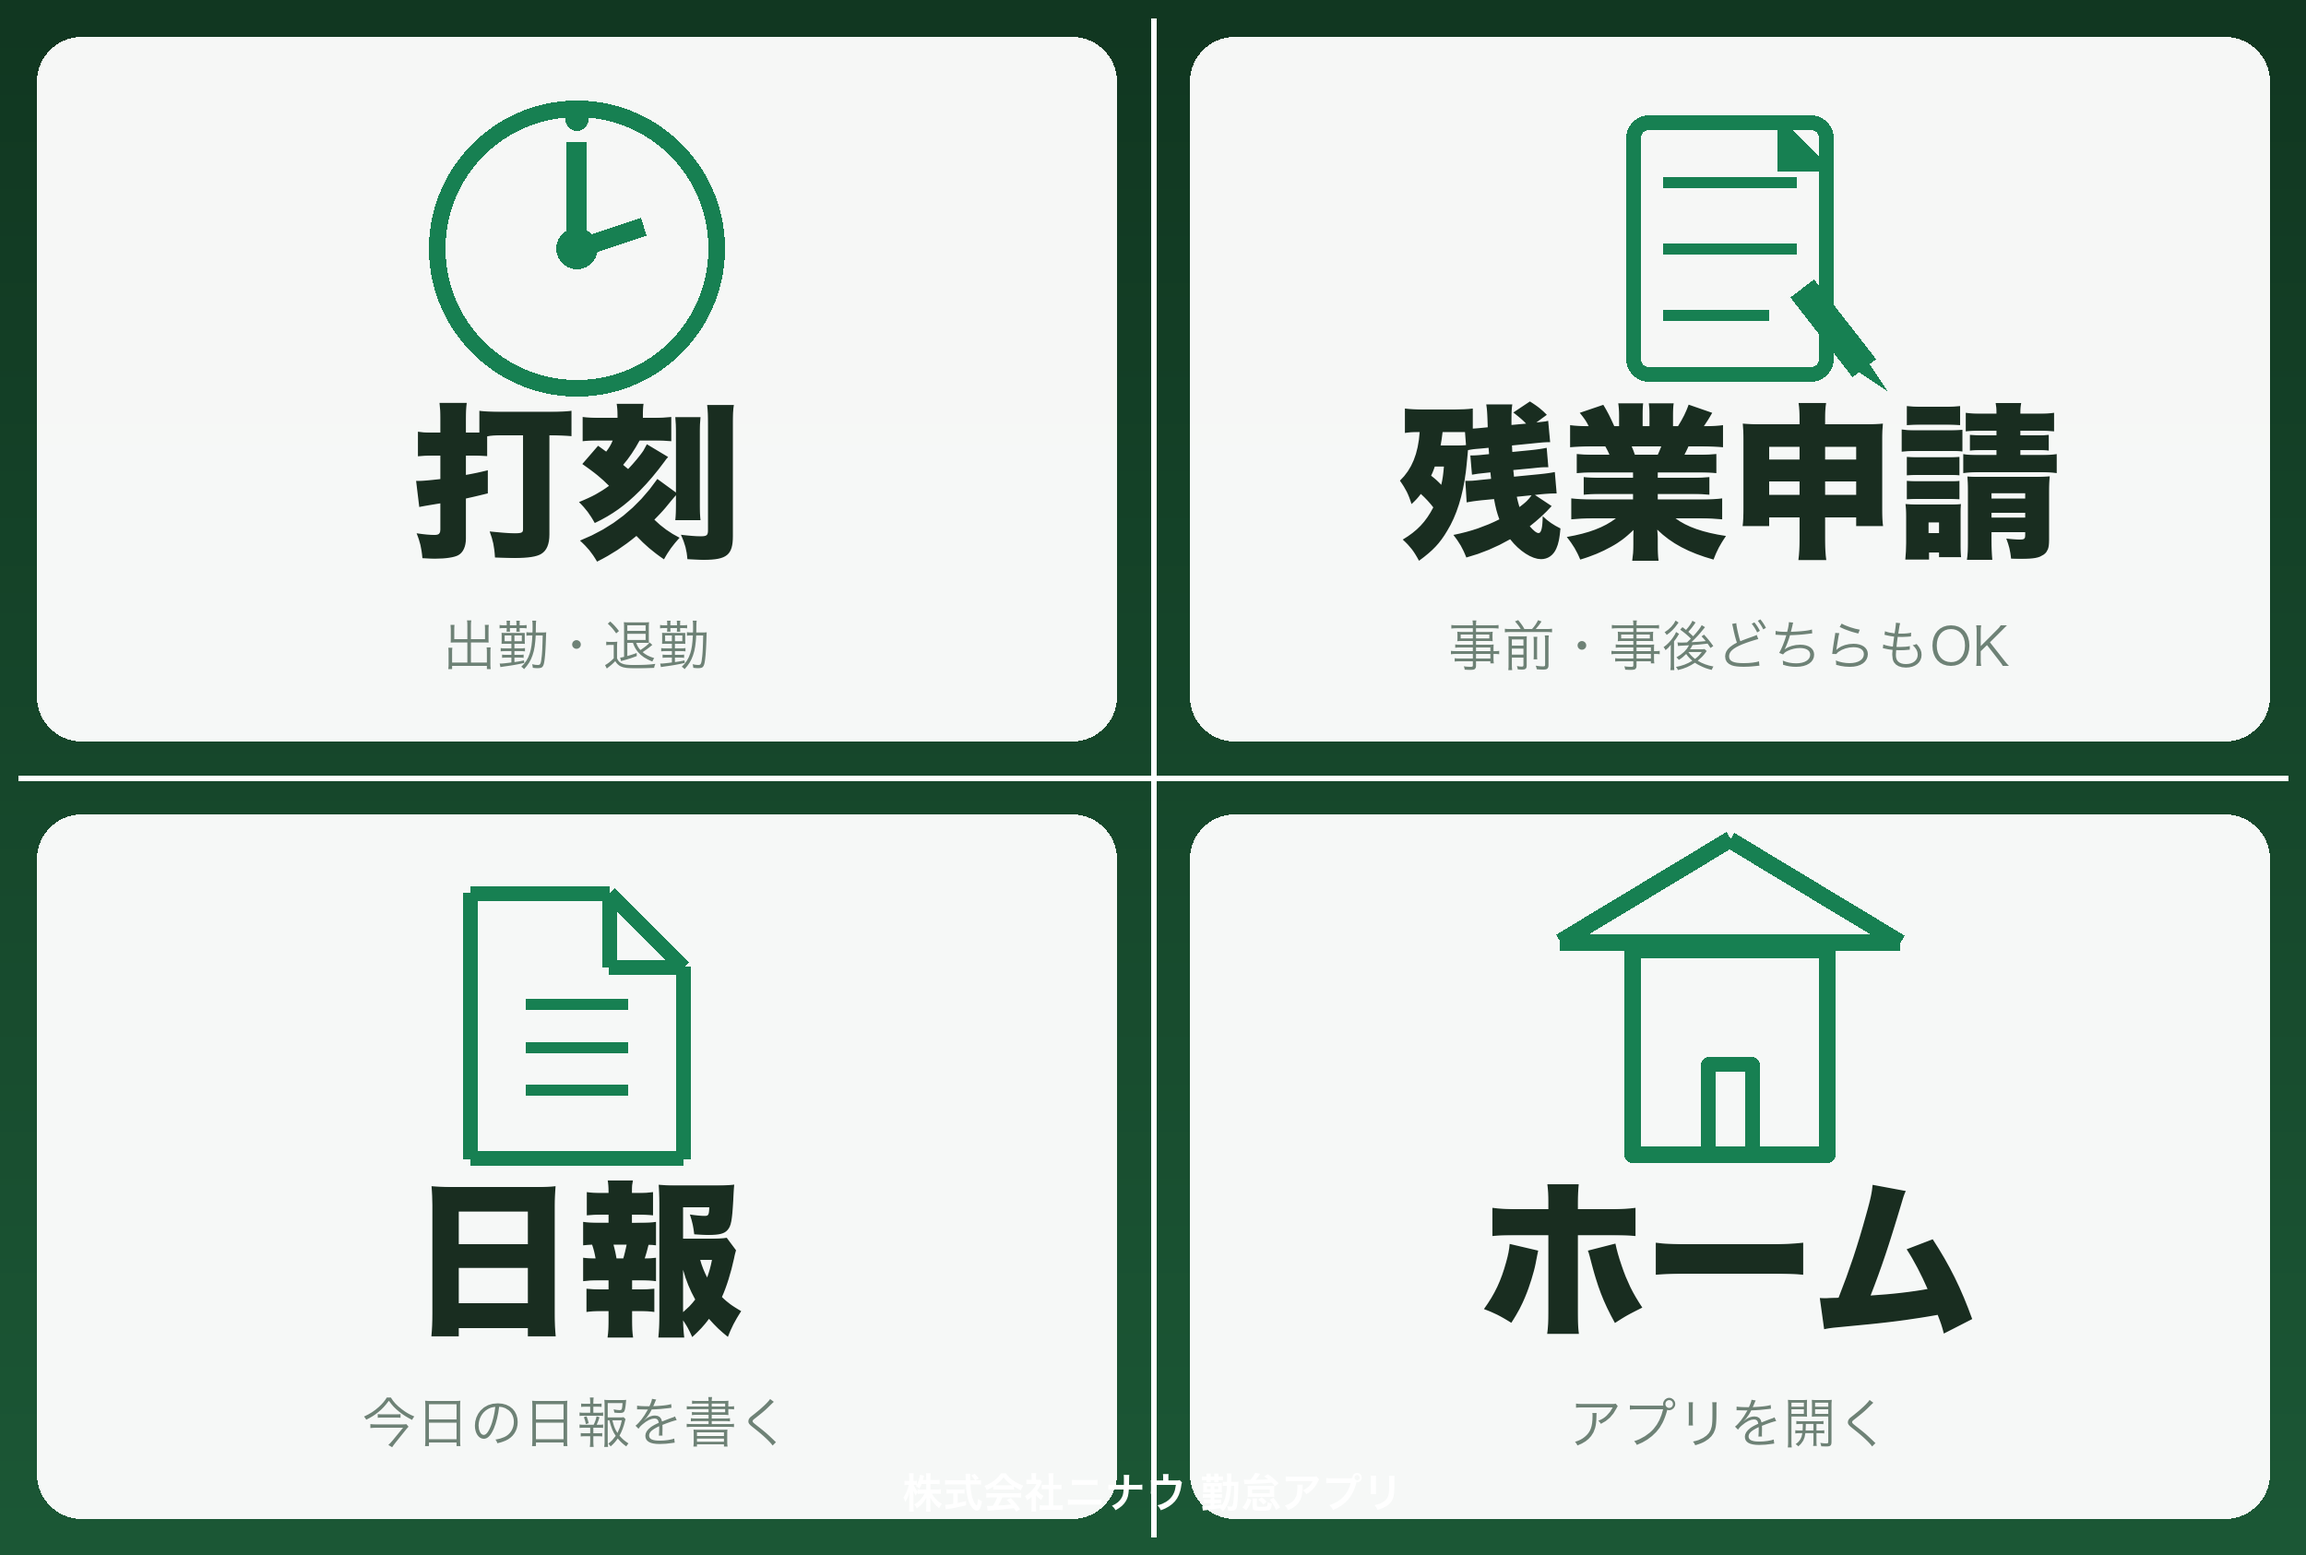
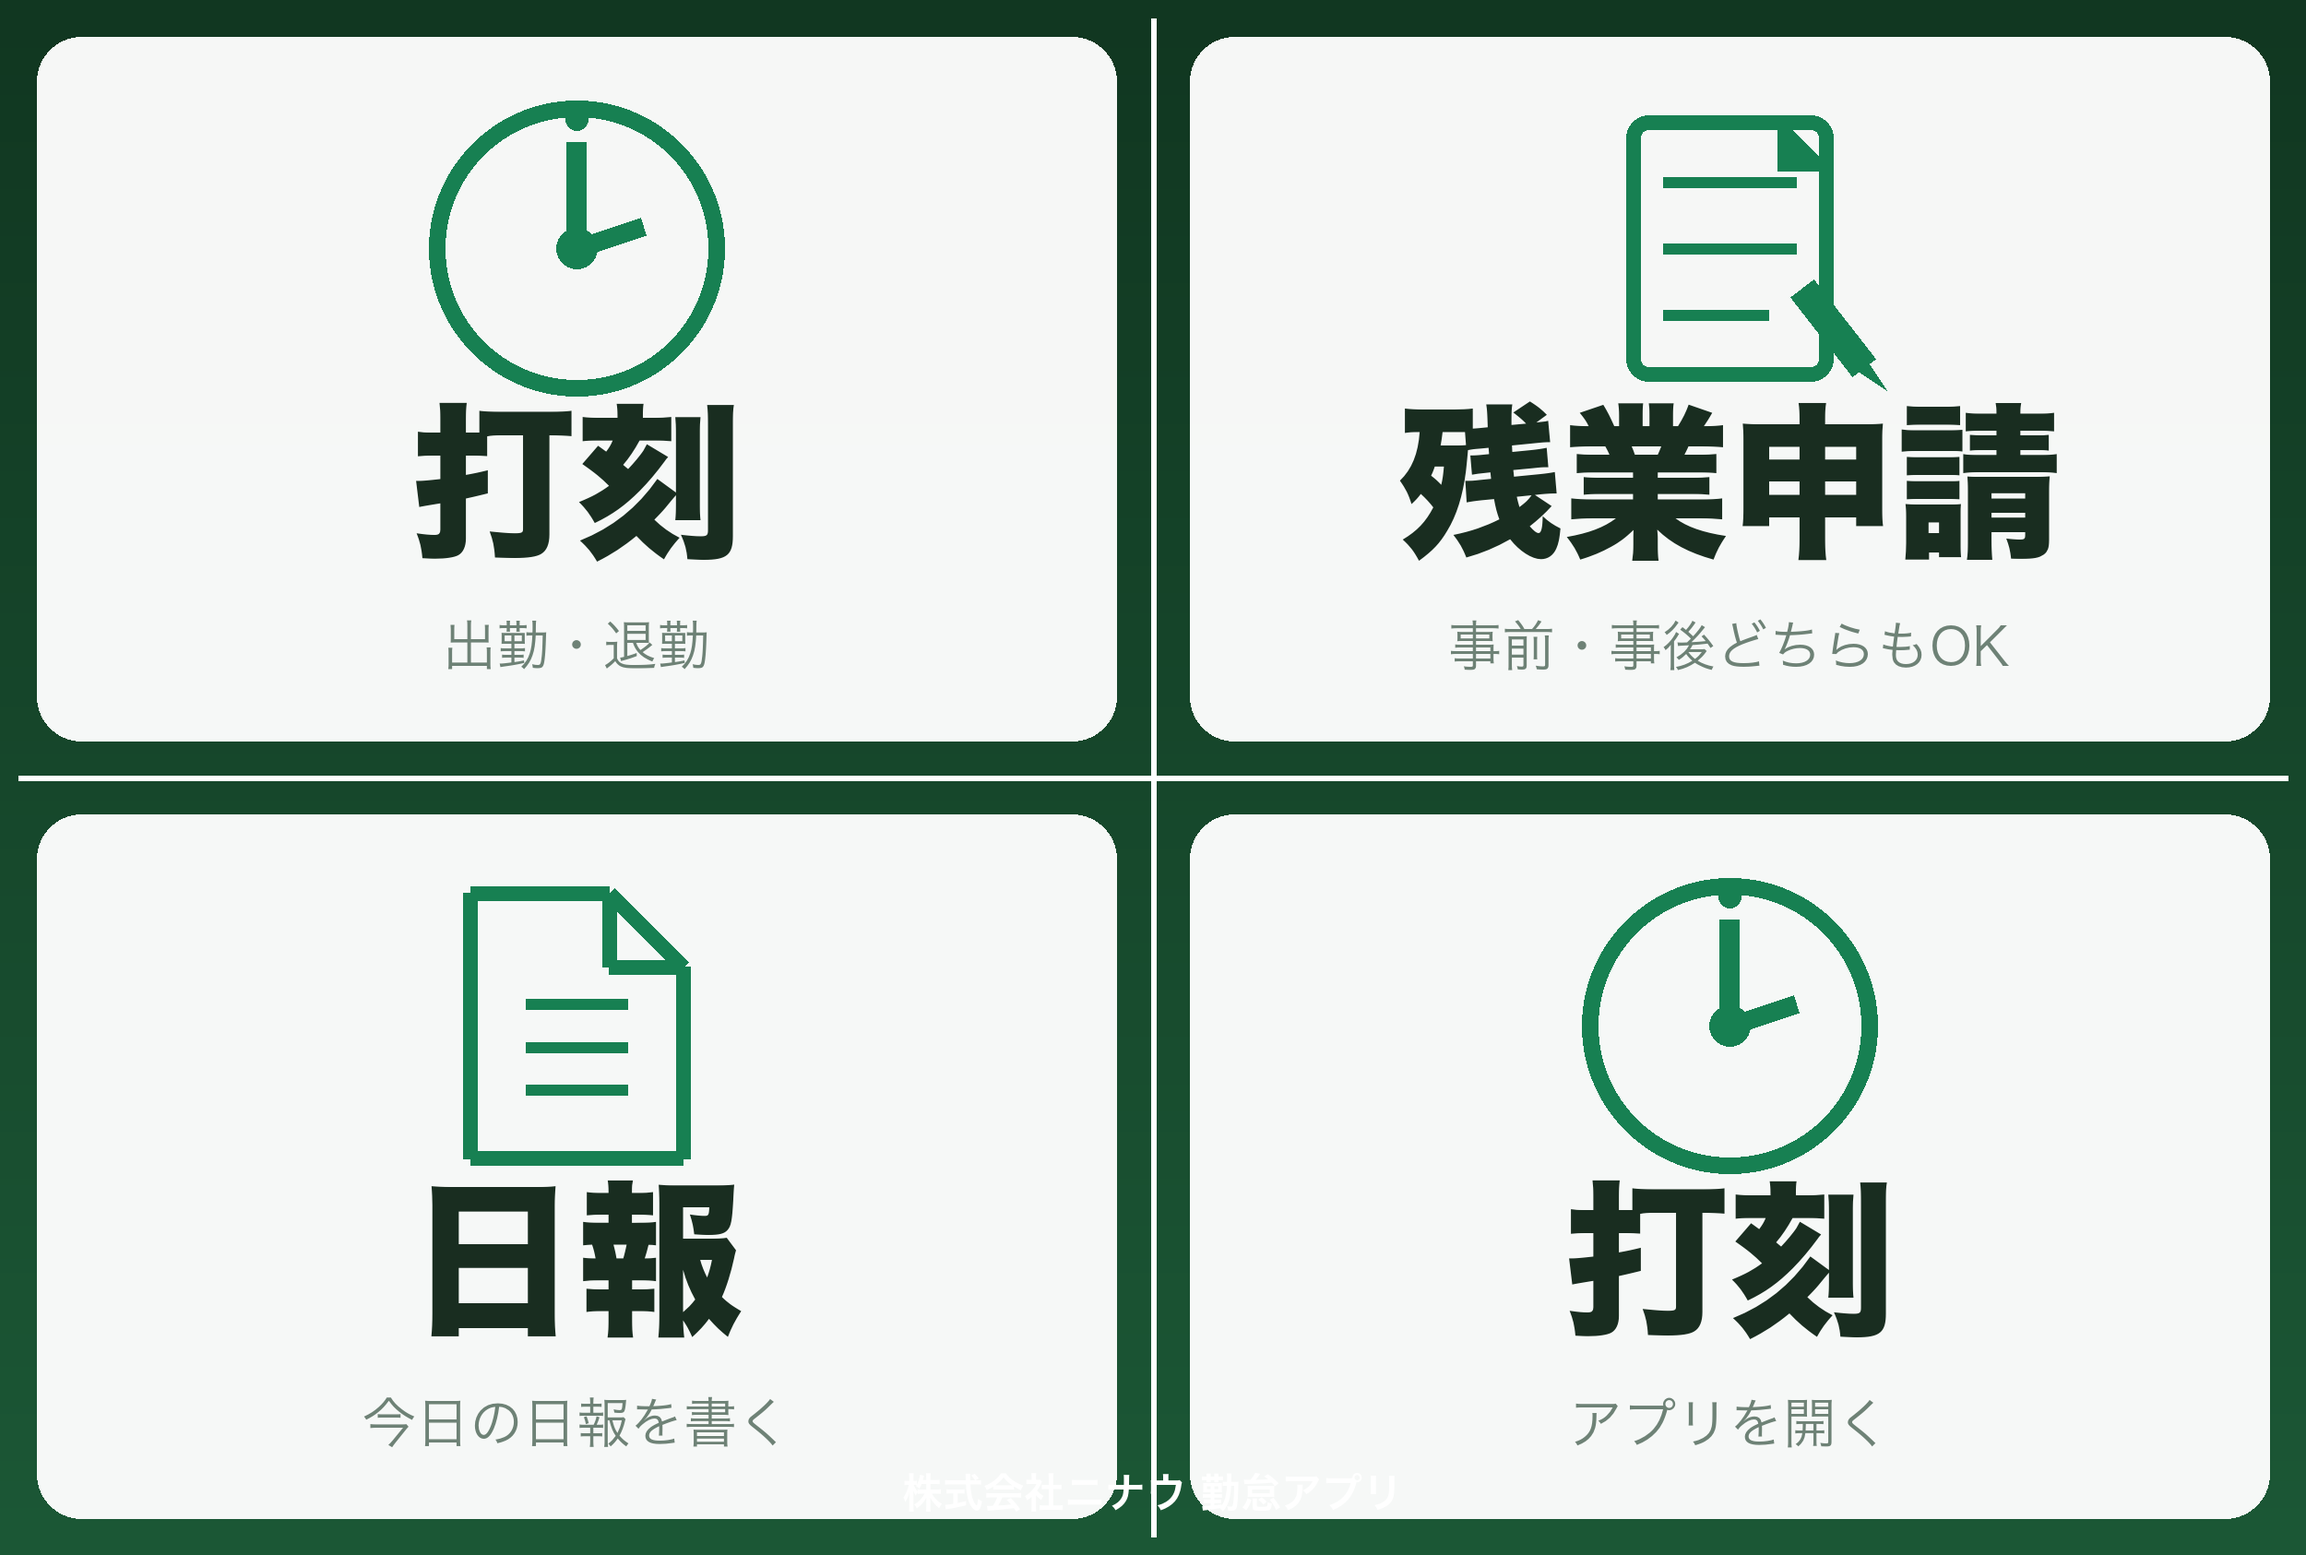
「ホーム」→「打刻」に統一（アプリ下部タブ + LINEリッチメニュー）
ホームと打刻がどちらも / (打刻パネル) を指すので、
下部タブのラベル/アイコンを「打刻」+ Clock アイコンに統一。
リッチメニューの右下タイル（旧「ホーム」）も「打刻」に変更し
本番へ再適用。

- BottomTabBar: ホーム → 打刻, HomeIcon → PunchIcon(Clock)
- icons.tsx: HomeIcon 削除、Clock as PunchIcon
- richmenu/*: 4タイル目のラベル・画像を打刻に変更
- 本番リッチメニュー再適用済 (新ID: richmenu-a8c4c7383ddcaa92548edef0ab299024)

Changed region(s): [[0.624, 0.5243, 0.8736, 0.8636]]

diff --git a/app/_components/BottomTabBar.tsx b/app/_components/BottomTabBar.tsx
@@ -4,7 +4,7 @@ import Link from "next/link";
 import { usePathname } from "next/navigation";
 import type { ComponentType, SVGProps } from "react";
 import {
-  HomeIcon,
+  PunchIcon,
   OvertimeIcon,
   VehicleIcon,
   ReportIcon,
@@ -27,7 +27,7 @@ type Tab = {
 };
 
 const TABS: Tab[] = [
-  { href: "/", label: "ホーム", Icon: HomeIcon, exact: true },
+  { href: "/", label: "打刻", Icon: PunchIcon, exact: true },
   { href: "/overtime", label: "残業", Icon: OvertimeIcon },
   { href: "/vehicle", label: "車両", Icon: VehicleIcon },
   { href: "/report", label: "日報", Icon: ReportIcon },

diff --git a/app/_components/icons.tsx b/app/_components/icons.tsx
@@ -9,7 +9,7 @@
  * - インポートはここ経由で集約することで、将来差し替えを1箇所で完結させる
  */
 export {
-  Home as HomeIcon,
+  Clock as PunchIcon,
   Clock4 as OvertimeIcon,
   Truck as VehicleIcon,
   ClipboardList as ReportIcon,

diff --git a/scripts/richmenu/generate.py b/scripts/richmenu/generate.py
@@ -168,7 +168,7 @@ def main():
         (0, 0, "打刻", "出勤・退勤", "clock"),
         (cw, 0, "残業申請", "事前・事後どちらもOK", "edit"),
         (0, ch, "日報", "今日の日報を書く", "doc"),
-        (cw, ch, "ホーム", "アプリを開く", "home"),
+        (cw, ch, "打刻", "アプリを開く", "clock"),
     ]
     for x, y, title, sub, ic in tiles:
         draw_tile(img, x, y, cw, ch, title, sub, ic)
